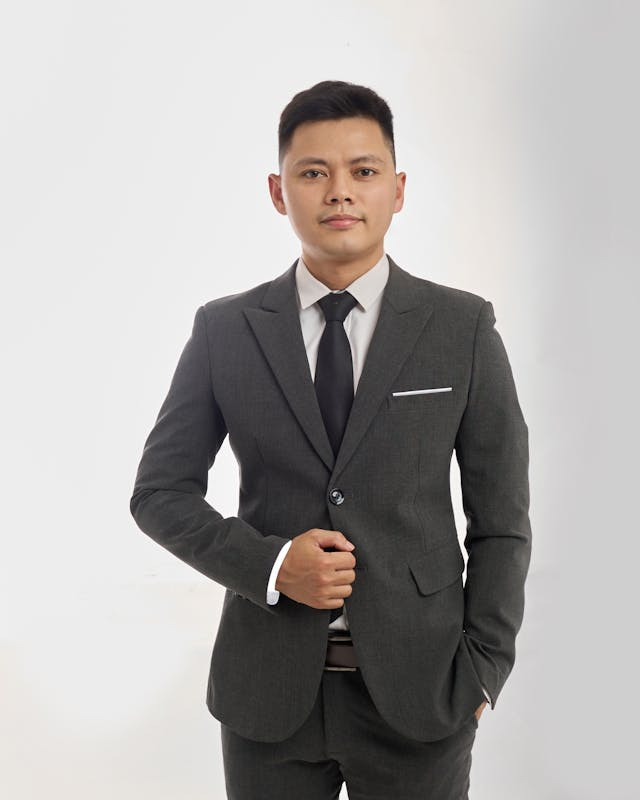
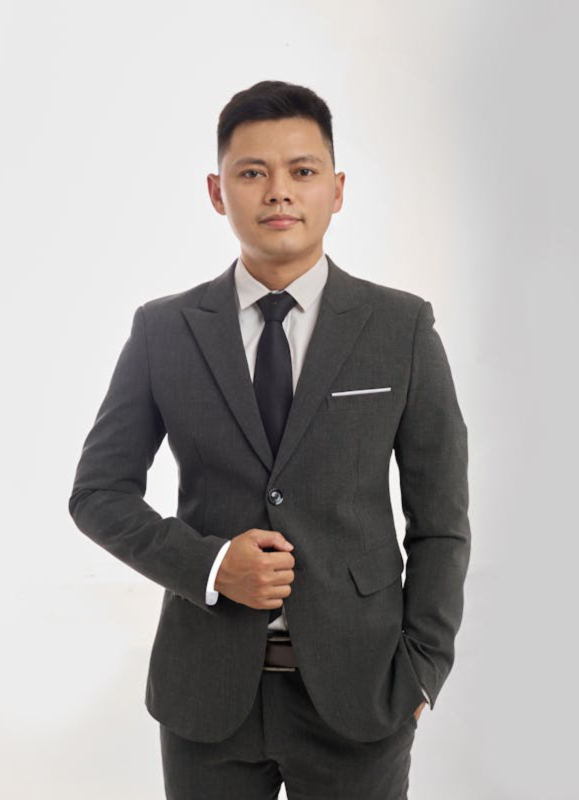
add our team section

diff --git a/css/style.css b/css/style.css
@@ -550,3 +550,49 @@ section.works a.main-btn {
   }
 }
 /* End of About Us Section */
+
+/* Start of our team section */
+.our-team{
+  background-color: var(--sec-bg-color);
+}
+.our-team .team-images{
+  display: flex;
+  align-items: center;
+  flex-direction: column;
+}
+.our-team .image{
+  margin-bottom: 50px;
+  border: 2px solid rgb(95, 95, 95);
+  border-radius: 5px;
+  display: flex;
+  box-shadow: 4px 5px 5px rgb(172, 172, 172);
+  position: relative;
+}
+.our-team img{
+  width: 100%;
+  position: relative;
+}
+.our-team .image::after{
+  content: "John Doe";
+  font:500 23px Expletus Sans;
+  color: #FFFFFF;
+  background-color: var(--sec-color);
+  position: absolute;
+  width: 200px;
+  height: 40px;
+  border-radius: 5px;
+  top: -25px;
+  left: 50%;
+  transform: translate(-50%);
+  display: flex;
+  align-items: center;
+  justify-content: center;
+}
+@media (min-width: 1024px) {
+  .our-team .team-images{
+    flex-direction: row;
+    gap: 21px;
+    padding-top: 30px;
+  }
+}
+/* End of our team section */

diff --git a/index.html b/index.html
@@ -167,5 +167,24 @@
       </div>
     </div>
   </section>
+  <section class="our-team">
+    <div class="container">
+      <div class="headers">
+        <h2>Our Team</h2>
+        <p>Lorem ipsum dolor sit amet consectetur adipiscing elit Ut et massa mi. Aliquam in hendrerit.</p>
+      </div>
+      <div class="team-images">
+        <div class="image">
+          <img src="imgs/team-1.jpg" alt="">
+        </div>
+        <div class="image">
+          <img src="imgs/team-2.jpg" alt="">
+        </div>
+        <div class="image">
+          <img src="imgs/team-3.jpg" alt="">
+        </div>
+      </div>
+    </div>
+  </section>
 </body>
 </html>
